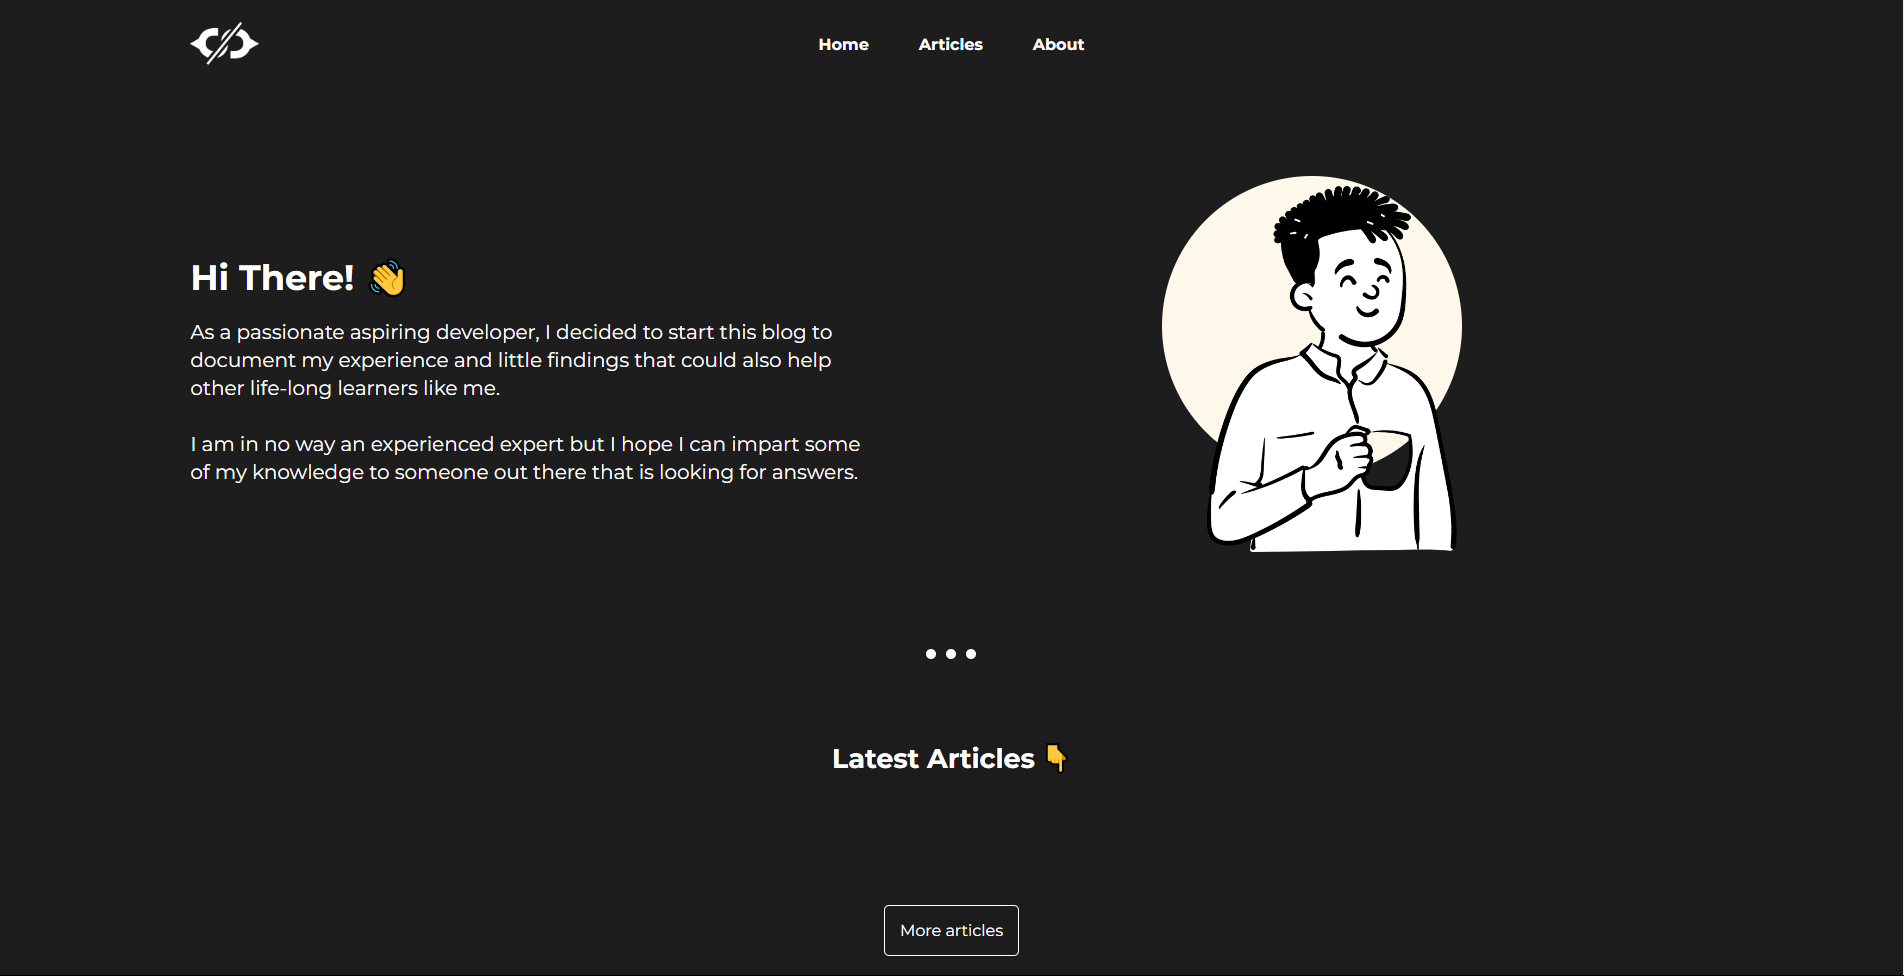
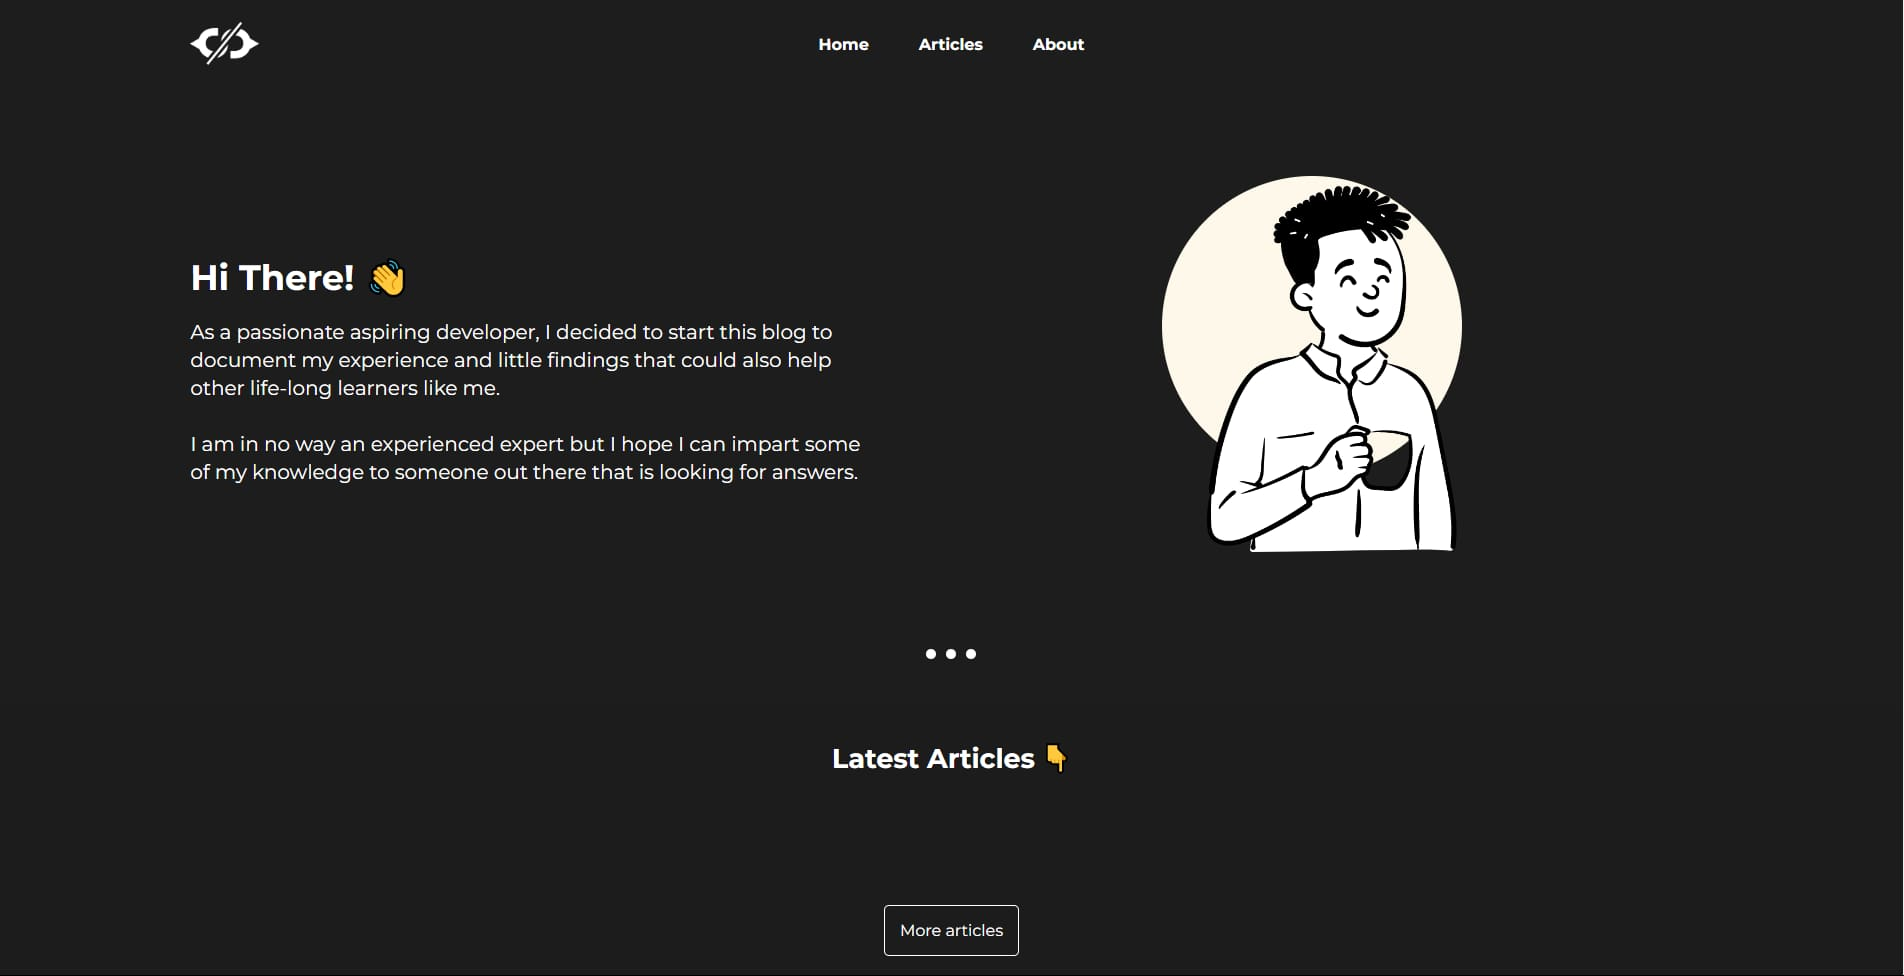
Fixed issue with build messing up image imports and also set proper default in themes

diff --git a/components/Navbar/Navbar.js b/components/Navbar/Navbar.js
@@ -11,10 +11,10 @@ const Navbar = () => {
       <div className={styles.main}>
         <a href="#main">
           <div className={styles.logo_container}>
-            {theme == 'dark' ?
-              <img className={styles.logo} src="./assets/logo-light.png" alt='logo'/>
-              :
+            {theme == 'light' ?
               <img className={styles.logo} src="./assets/logo-dark.png" alt='logo'/>
+              :
+              <img className={styles.logo} src="./assets/logo-light.png" alt='logo'/>
             }
           </div>
         </a>
@@ -22,10 +22,10 @@ const Navbar = () => {
           <div className={styles.button} onClick={()=>{
             toggle()
           }}>
-            {theme == 'dark' ?
-              <img src={'./assets/light.svg'} alt='light'/>
-              :
+            {theme == 'light' ?
               <img src={'./assets/dark.svg'} alt='dark'/>
+              :
+              <img src={'./assets/light.svg'} alt='light'/>
             }
           </div>
           <a href="#projects">projects</a>
